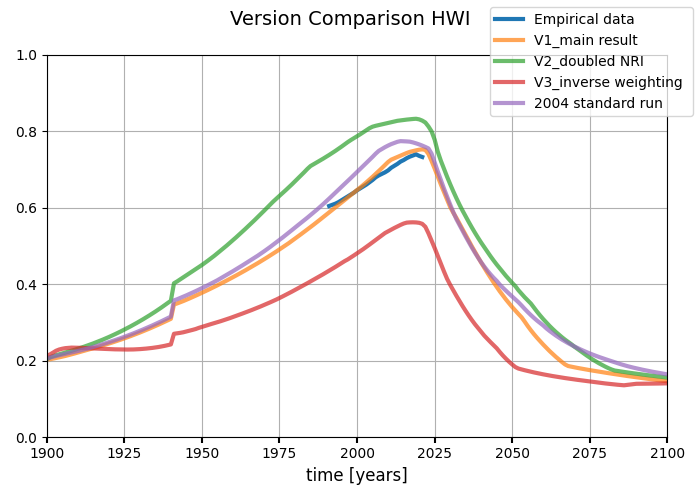
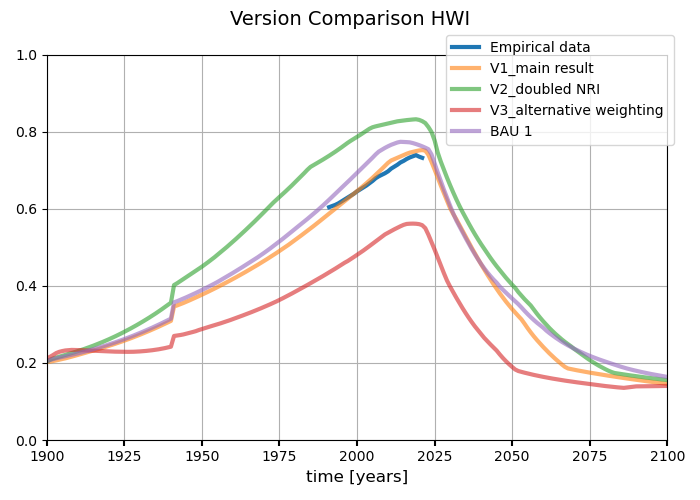
plots

diff --git a/result_plotting.py b/result_plotting.py
@@ -10,7 +10,65 @@ Copied plotting function from the original PyWorld3 Package to make Changes in t
 
 '''
 
-def plot_world_variables_black_linestyle(time, var_data, var_names, var_lims, alpha, linestyle,
+def plot_world_variables_color_linestyle(time, var_data, var_names, var_lims, alpha, color, linestyle,
+                         img_background=None,
+                         title=None,
+                         figsize=None,
+                         dist_spines=0.09,
+                         grid=False,
+                         legend = True):
+    """
+    Plots world state from an instance of World3 or any single sector.
+
+    """
+    prop_cycle = plt.rcParams['axes.prop_cycle']
+    # colors = prop_cycle.by_key()['color']
+
+    var_number = len(var_data)
+
+    fig, host = plt.subplots(figsize=figsize)
+    axs = [host, ]
+    for i in range(var_number-1):
+        axs.append(host.twinx())
+
+    fig.subplots_adjust(left=dist_spines*2)
+
+
+    if img_background is not None:
+        im = imread(img_background)
+        axs[0].imshow(im, aspect="auto",
+                      extent=[time[0], time[-1],
+                              var_lims[0][0], var_lims[0][1]], cmap="gray")
+
+    ps = []
+    for ax, label, ydata, linestyle, alpha, color in zip(axs, var_names, var_data, linestyle, alpha, color):
+        ps.append(ax.plot(time, ydata, label=label, color = color, linestyle=linestyle, alpha=alpha)[0])
+    axs[0].grid(grid)
+    axs[0].set_xlim(time[0], time[-1])
+
+    for ax, lim in zip(axs, var_lims):
+        ax.set_ylim(lim[0], lim[1])
+
+    for ax_ in axs:
+        formatter_ = EngFormatter(places=0, sep="\N{THIN SPACE}")
+        ax_.tick_params(axis='y', rotation=90)
+        ax_.yaxis.set_major_locator(plt.MaxNLocator(5))
+        ax_.yaxis.set_major_formatter(formatter_)
+        #ax_.legend()
+
+    tkw = dict(size=4, width=1.5)
+    axs[0].set_xlabel("time [years]")
+    axs[0].tick_params(axis='x', **tkw)
+    if legend:
+        fig.legend(loc='upper right', bbox_to_anchor=(0.3, 0.75))
+
+    if title is not None:
+        #fig.suptitle(title, x=0.95, ha="right", fontsize=10)
+        fig.suptitle(title, fontsize=14)
+
+    #plt.tight_layout()
+
+def plot_world_variables(time, var_data, var_names, var_lims, alpha,
                          img_background=None,
                          title=None,
                          figsize=None,
@@ -31,7 +89,11 @@ def plot_world_variables_black_linestyle(time, var_data, var_names, var_lims, al
         axs.append(host.twinx())
 
     fig.subplots_adjust(left=dist_spines*2)
-
+    for i, ax in enumerate(axs[1:]):
+        ax.spines["left"].set_position(("axes", -(i + 1)*dist_spines))
+        ax.spines["left"].set_visible(True)
+        ax.yaxis.set_label_position('left')
+        ax.yaxis.set_ticks_position('left')
 
     if img_background is not None:
         im = imread(img_background)
@@ -40,8 +102,8 @@ def plot_world_variables_black_linestyle(time, var_data, var_names, var_lims, al
                               var_lims[0][0], var_lims[0][1]], cmap="gray")
 
     ps = []
-    for ax, label, ydata, linestyle, alpha in zip(axs, var_names, var_data, linestyle, alpha):
-        ps.append(ax.plot(time, ydata, label=label, color = 'black', linestyle=linestyle, alpha=alpha)[0])
+    for ax, label, ydata, color, alpha in zip(axs, var_names, var_data, colors, alpha):
+        ps.append(ax.plot(time, ydata, label=label, color=color, alpha=alpha)[0])
     axs[0].grid(grid)
     axs[0].set_xlim(time[0], time[-1])
 
@@ -53,21 +115,24 @@ def plot_world_variables_black_linestyle(time, var_data, var_names, var_lims, al
         ax_.tick_params(axis='y', rotation=90)
         ax_.yaxis.set_major_locator(plt.MaxNLocator(5))
         ax_.yaxis.set_major_formatter(formatter_)
-        #ax_.legend()
 
     tkw = dict(size=4, width=1.5)
     axs[0].set_xlabel("time [years]")
     axs[0].tick_params(axis='x', **tkw)
+    for i, (ax, p) in enumerate(zip(axs, ps)):
+        ax.set_ylabel(p.get_label(), rotation="vertical", fontsize='medium', horizontalalignment='right')
+        ax.yaxis.label.set_color(p.get_color())
+        ax.tick_params(axis='y', colors=p.get_color(), **tkw)
+        ax.yaxis.set_label_coords(-i*dist_spines-0.05, 1)
 
-    fig.legend(loc='upper right', bbox_to_anchor=(0.3, 0.75))
 
     if title is not None:
         #fig.suptitle(title, x=0.95, ha="right", fontsize=10)
         fig.suptitle(title, fontsize=14)
 
-    #plt.tight_layout()
+    plt.tight_layout()
 
-def plot_world_variables(time, var_data, var_names, var_lims, alpha,
+def plot_world_variables_color(time, var_data, var_names, var_lims, alpha, colors,
                          img_background=None,
                          title=None,
                          figsize=None,
@@ -78,7 +143,7 @@ def plot_world_variables(time, var_data, var_names, var_lims, alpha,
 
     """
     prop_cycle = plt.rcParams['axes.prop_cycle']
-    colors = prop_cycle.by_key()['color']
+    #colors = prop_cycle.by_key()['color']
 
     var_number = len(var_data)
 
@@ -172,7 +237,7 @@ def plot_world_variables_vc(time, var_data, var_names, var_lims, alpha,
     tkw = dict(size=4, width=1.5)
     axs[0].set_xlabel("time [years]")
     axs[0].tick_params(axis='x', **tkw)
-    fig.legend(loc='upper right')
+    fig.legend(loc='center', bbox_to_anchor=(0.8, 0.82))
 
     if title is not None:
         fig.suptitle(title, fontsize=14)

diff --git a/test_improved_world3_parameters.py b/test_improved_world3_parameters.py
@@ -75,7 +75,7 @@ rs.plot_world_variables(world3.time,
                  figsize=(7, 5),
                  title="PyWorld3-05 run with improved parameters")'''
 
-rs.plot_world_variables(world3.time,
+'''rs.plot_world_variables(world3.time,
                  [empirical_data['Ecological_Footprint'], world3.ef, empirical_data['Human_Welfare'], world3.hwi],
                  ["EF empirical", "EF model", "HWI empirical", "HWI model"],
                  [[0, 4], [0, 4], [0, 1], [0, 1]],
@@ -83,17 +83,34 @@ rs.plot_world_variables(world3.time,
                  img_background="exports/BAU_HWI-EF_Background-Picture.png",
                  figsize=(7, 5), title="Variation A, PyWorld3-03 run with improved parameters")
 plt.savefig("exports/PyWorld3-03 run with improved parameters_ef hwi-own background.png")
-#plt.show()
-'''rs.plot_world_variables_black_linestyle(world3.time,
+#plt.show()'''
+
+'''rs.plot_world_variables_color_linestyle(world3.time,
                                         [world3.io, world3.f, world3.pop,
                                          world3.ppolx, world3.nrfr],
                                         ["IO", "F", "POP", "PPOLX", "NRFR"],
                                         [[0, 4e12], [0, 5.8e12], [0, 12e9], [0, 40], [0, 1.975]],
-                        [1,1,1,1],
-                        ['solid', 'dotted', 'dashed', 'dashdot'],
+                        [1, 1, 1, 1, 1],
+                        #['#ff0000', '#00ff6e', '#ff6300', '#0047ff', '#f52791'],
+                        ['#ff4646', '#43ff94', '#ff8235', '#4b7eff', '#ff6fb5'],
+                        ['solid', 'solid', 'solid', 'solid', 'solid'],
                         figsize = (7, 5),
-                        title = "PyWorld3-03 BAU - State of the World")
-plt.savefig('exports/BAU_State_of_the_world.png')'''
+                        title = "PyWorld3-03 BAU - State of the World",
+                                        legend=False)
+plt.savefig('exports/BAU_State_of_the_world_color.png')
+plt.show()'''
+
+rs.plot_world_variables_color(world3.time,
+                 [world3.io, world3.f, world3.pop,
+                  world3.ppolx, world3.nr],
+                 ["IO", "F", "POP", "PPOLX", "NR"],
+                 [[0, 4e12], [0, 5.8e12], [0, 12e9], [0, 40], [0, 2e12]],
+                 [1, 1, 1, 1, 1],
+                 ['#ff0000', '#00ff6e', '#ff6300', '#0047ff', '#f52791'],
+                 img_background="exports/BAU_State_of_the_world_colorbrighter.png",
+                 figsize=(7, 5),
+                 title="World3 Referenze Run, 2004 Szenario 1", grid=True)
+plt.show()
 
 '''rs.plot_world_variables_black_linestyle(world3.time,
                         [world3.le, world3.fpc, world3.sopc, world3.ciopc],

diff --git a/plot_variantenvergleich.py b/plot_variantenvergleich.py
@@ -4,7 +4,7 @@ Skript zum Erstellen des Vergleichsplots zwischen 3 Parametrierungen und den emp
 """
 
 from PyWorld3_Update.pyworld3 import World3
-from pyworld3.utils import plot_world_variables
+#from pyworld3.utils import plot_world_variables
 import result_plotting as rs
 import matplotlib.pyplot as plt
 import analysis_functions as af
@@ -21,7 +21,7 @@ label1 = 'V1_main result'
 parameter_set_2 = pd.read_excel('Durchläufe/NRI/Doppelte NRI/Analysis parameter_list_23_03_02_20_24.xlsx', index_col=0)
 label2 = 'V2_doubled NRI'
 parameter_set_3 = pd.read_excel('Durchläufe/Gewichtung/Alex_Gewichtung/Analysis parameter_list_23_03_03_01_10.xlsx', index_col=0)
-label3 = 'V3_inverse weighting '
+label3 = 'V3_alternative weighting '
 
 parameter_dict_1 = {}
 for index, name in enumerate(parameter_set_1['name']):
@@ -68,9 +68,9 @@ w3_3.run_world3(fast=False)
 
 rs.plot_world_variables_vc(w3_1.time,
                         [empirical_data["Population"], w3_1.pop, w3_2.pop, w3_3.pop, w3_sr.pop],
-                        ["Empirical Data", label1, label2, label3, "2004 standard run"],
+                        ["Empirical Data", label1, label2, label3, "BAU 1"],
                         [[0, 12e9], [0, 12e9], [0, 12e9], [0, 12e9], [0, 12e9]],
-                        [1, 0.7, 0.7, 0.7, 0.7],
+                        [1, 0.6, 0.6, 0.6, 0.6],
                         grid=True,
                         figsize=(7, 5),
                         title="Version Comparison Population")
@@ -90,9 +90,9 @@ plt.savefig('exports/Variantenvergleich_Population.png')
 
 rs.plot_world_variables_vc(w3_1.time,
                         [empirical_data["Human_Welfare"], w3_1.hwi, w3_2.hwi, w3_3.hwi, w3_sr.hwi],
-                        ["Empirical data", label1, label2, label3, "2004 standard run"],
+                        ["Empirical data", label1, label2, label3, "BAU 1"],
                         [[0, 1], [0, 1], [0, 1], [0, 1], [0, 1]],
-                        [1, 0.7, 0.7, 0.7, 0.7],
+                        [1, 0.6, 0.6, 0.6, 0.6],
                         grid=True,
                         figsize=(7, 5),
                         title="Version Comparison HWI")
